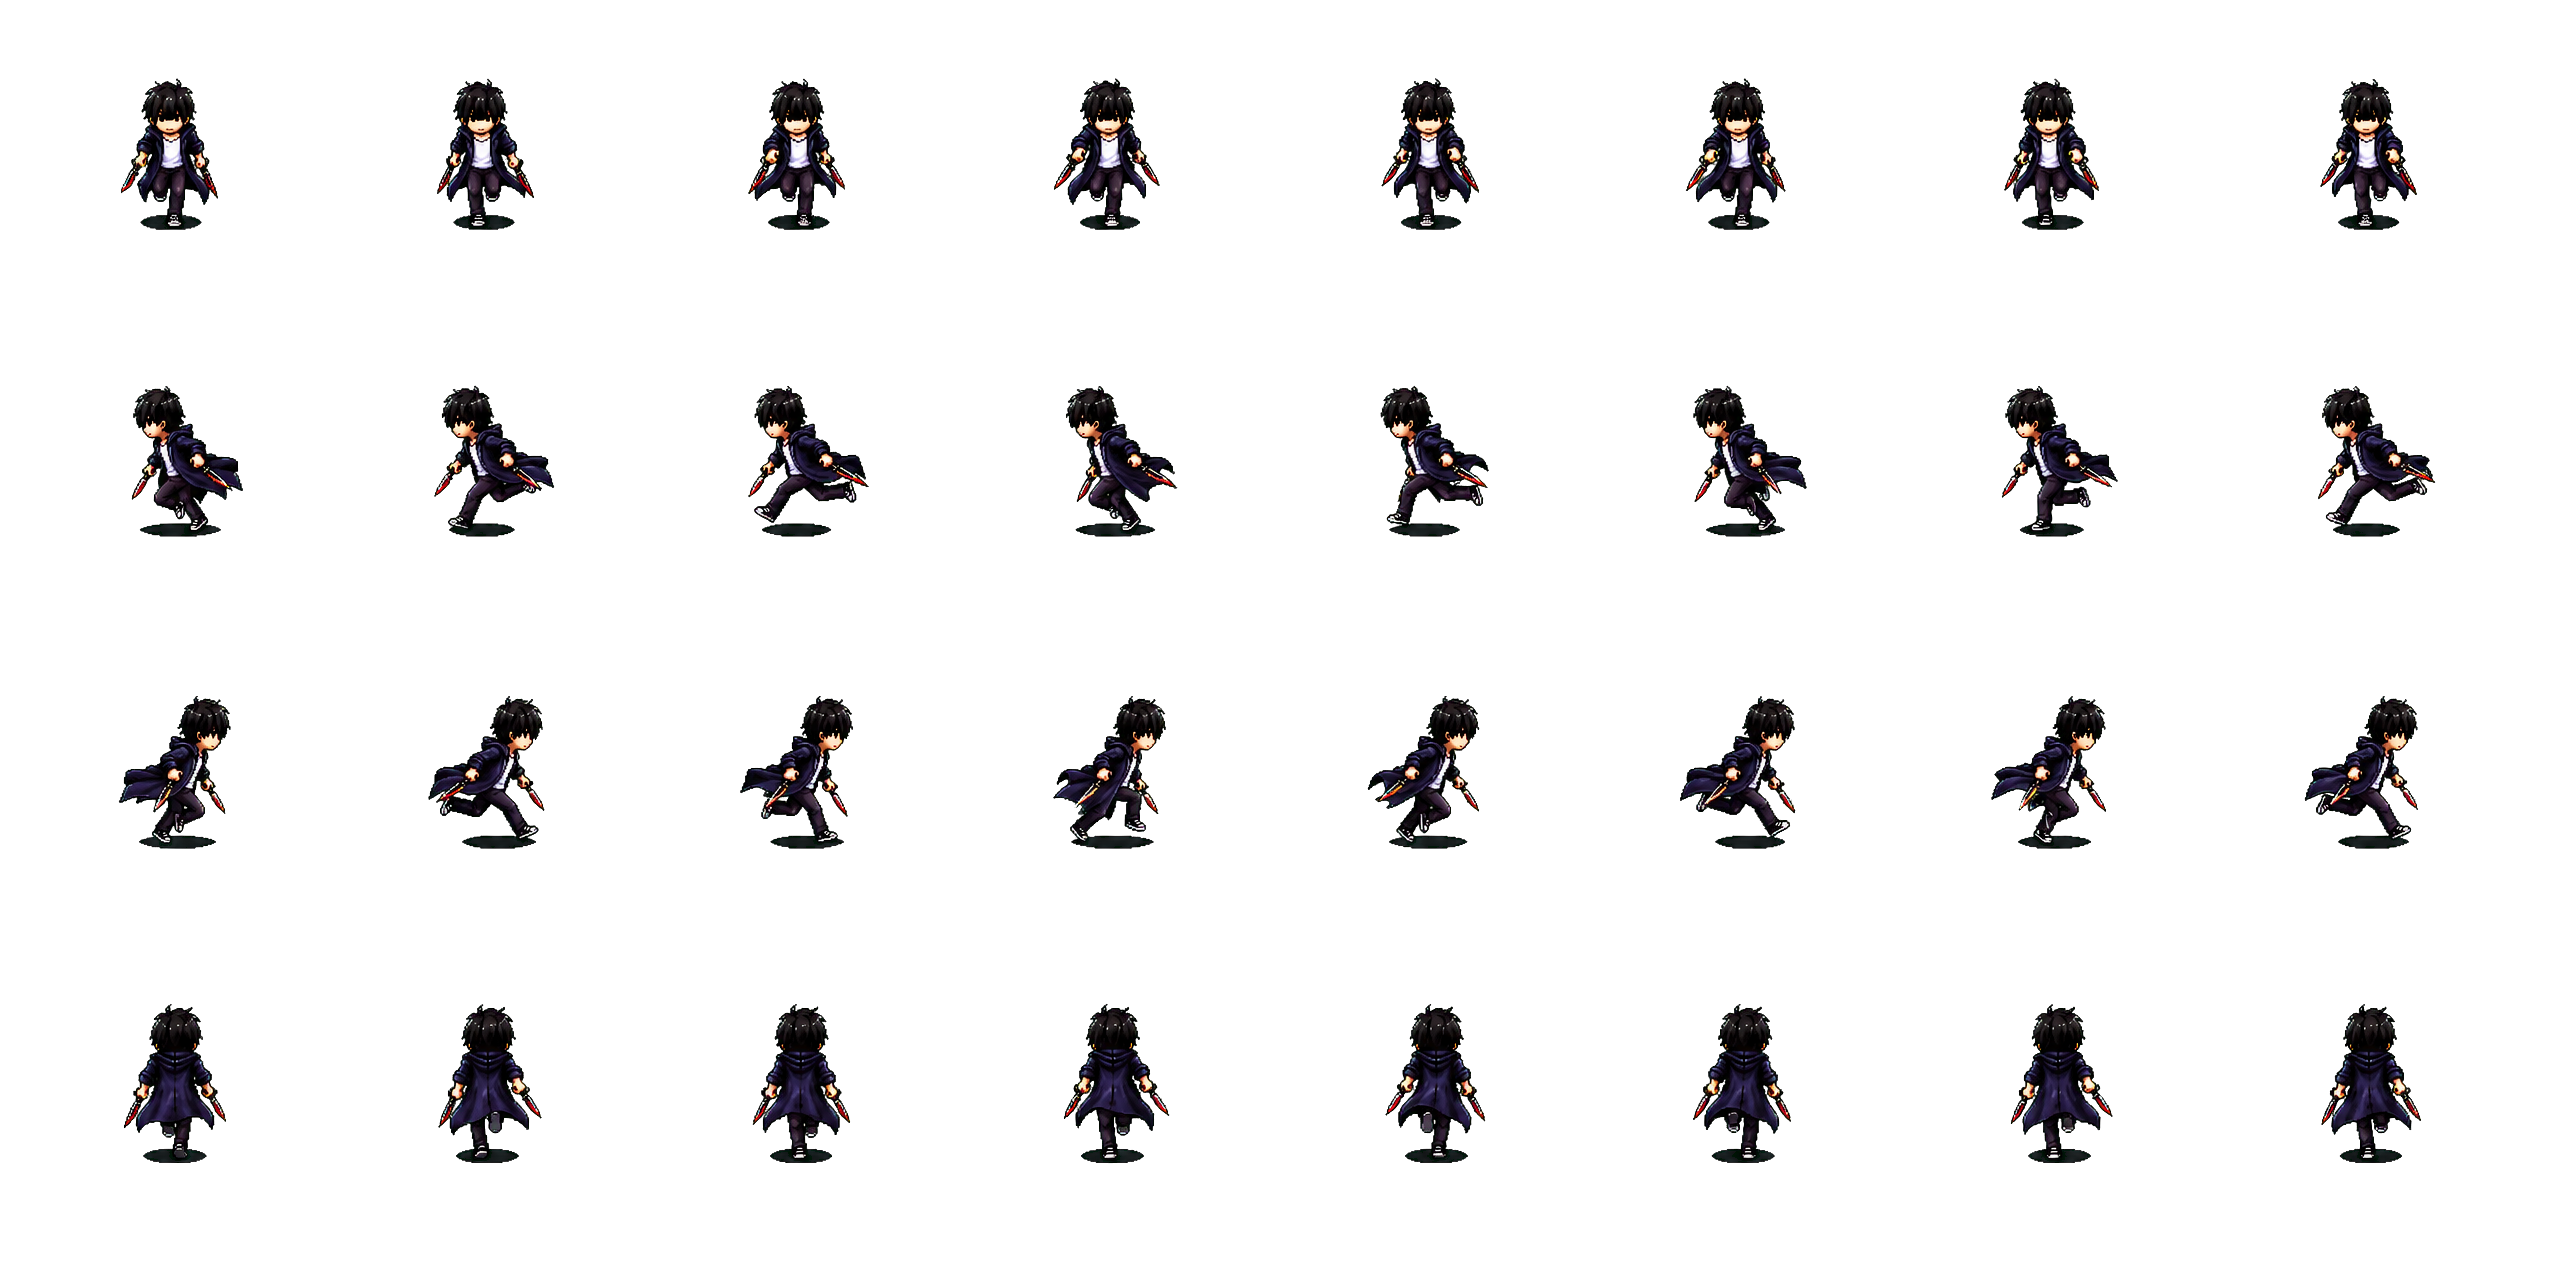
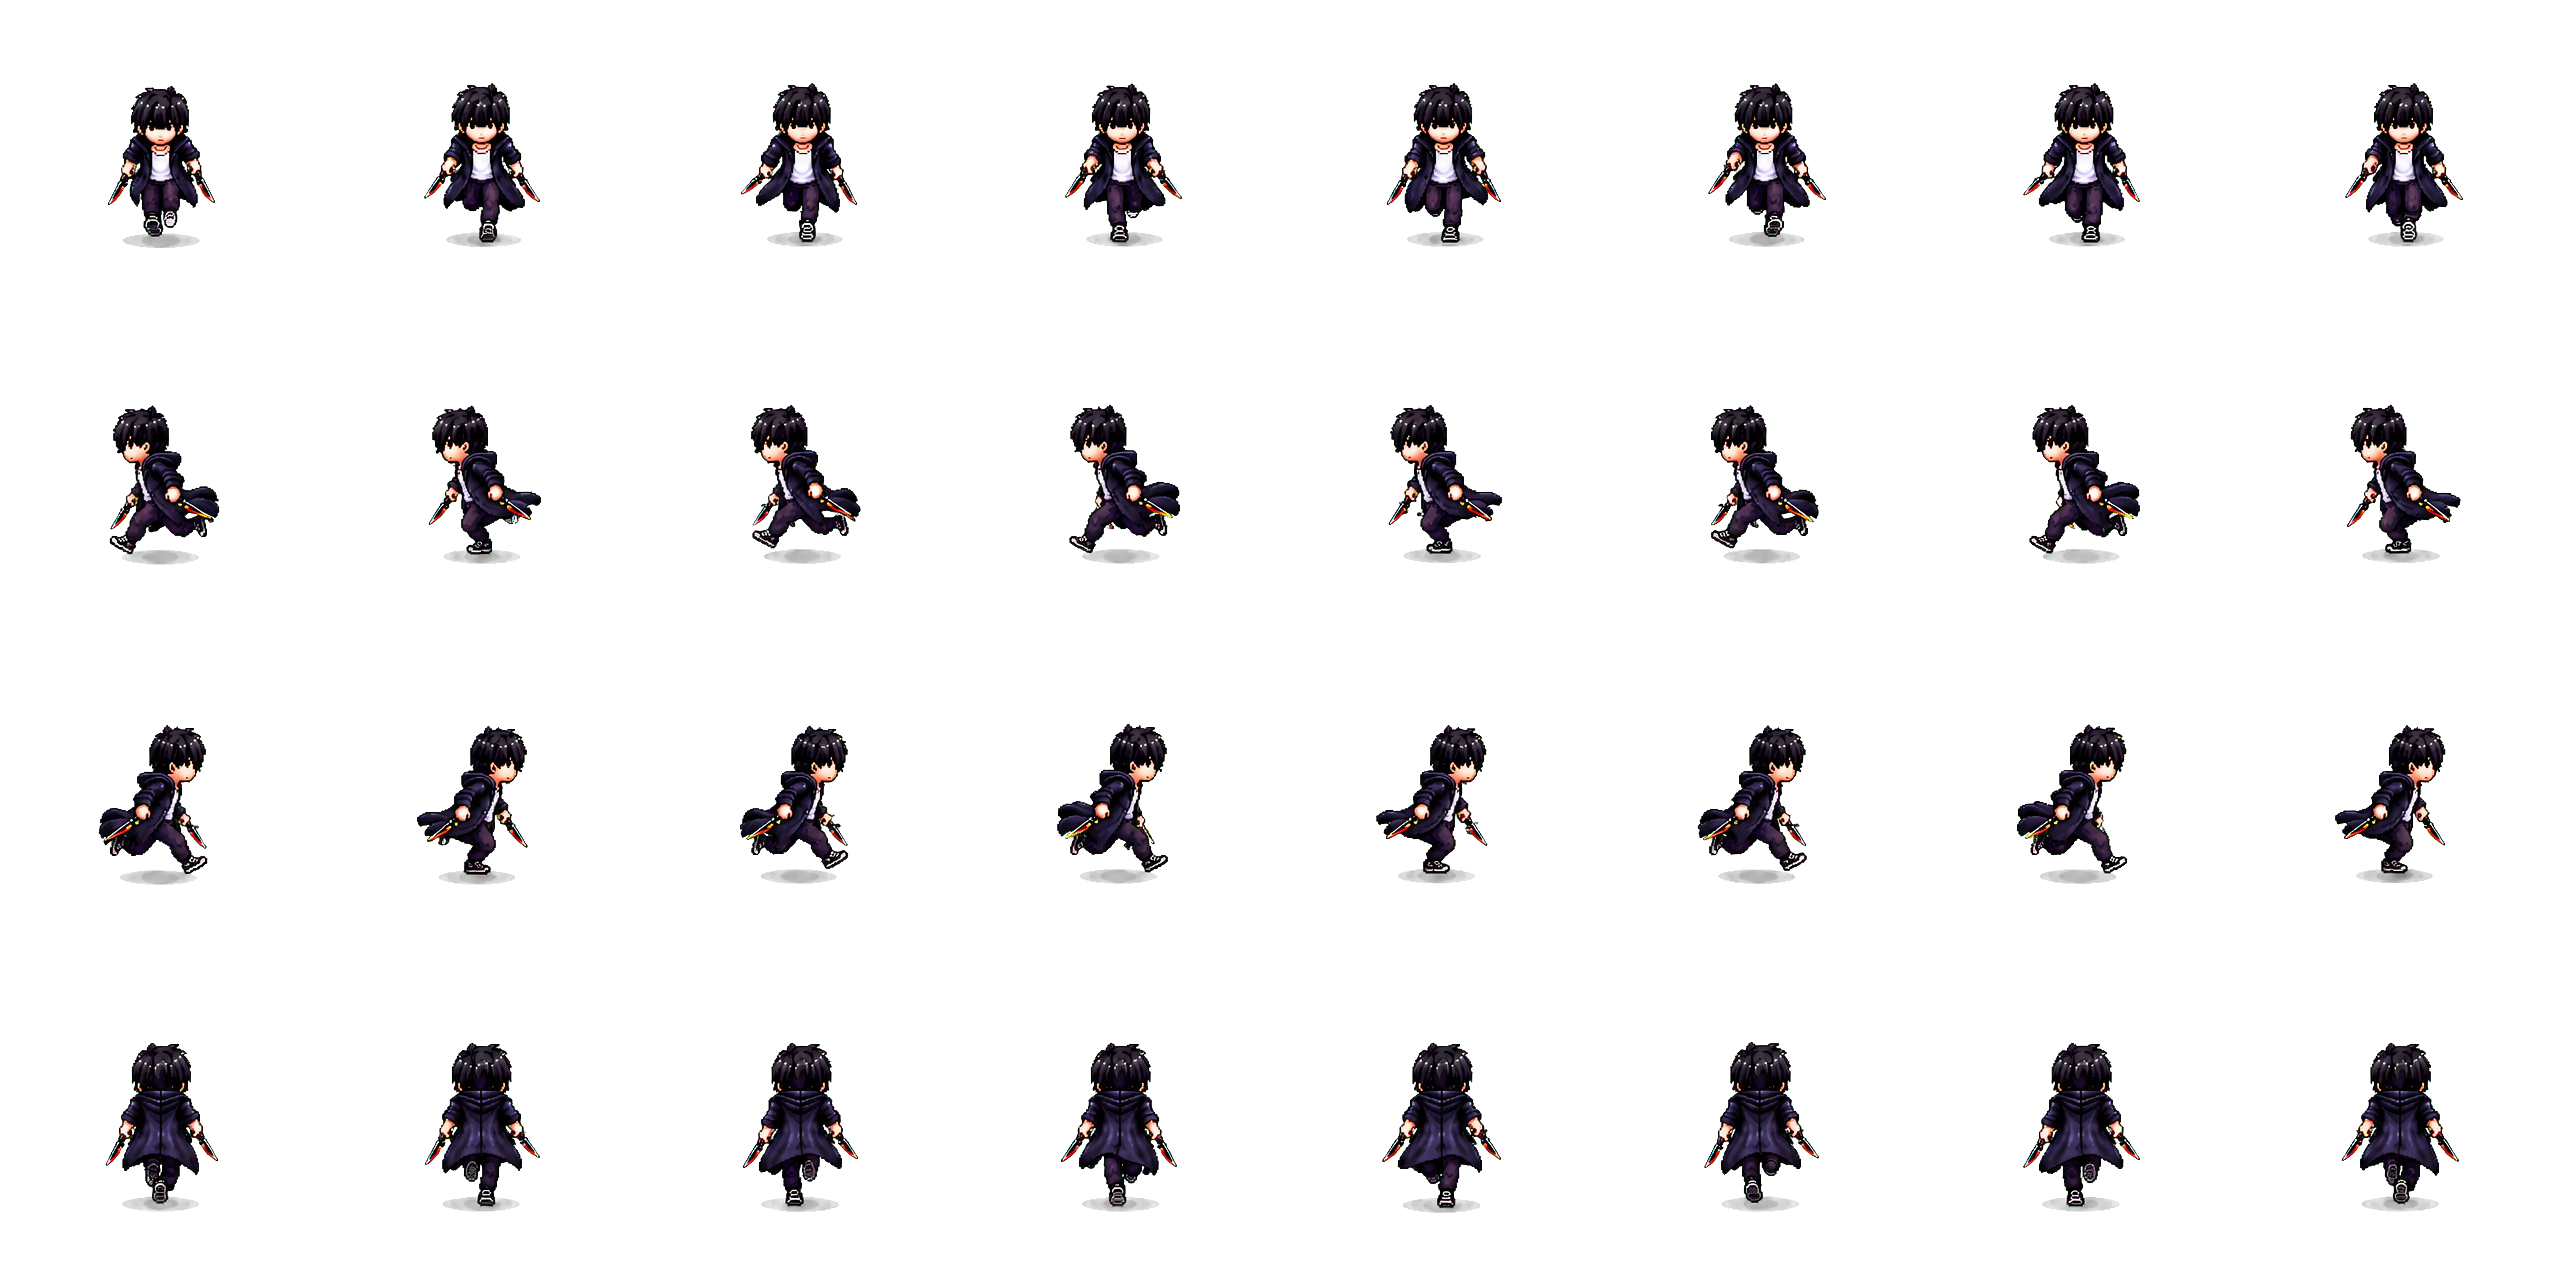
fixing animations

diff --git a/gameplay.py b/gameplay.py
@@ -17,7 +17,8 @@ from game_data import (
     STAGES, ENEMY_TYPES, CLASS_STATS, portrait_imgs, STAGE_BGS,
     warrior_anims, _w_idle_rows, _w_walk_rows, _w_run_rows, _w_atk_rows,
     _w_run_atk_rows, _w_walk_atk_rows, _w_hurt_rows, _w_death_rows,
-    assassin_anims, _a_idle_rows, _a_walk_rows, _a_run_rows, _a_atk_rows,
+    assassin_anims, _a_idle_rows, _a_walk_rows, _a_run_rows,
+    _a_atk1_rows, _a_atk2_rows, _a_atk3_rows,
     _a_walk_atk_rows, _a_run_atk_rows, _a_dash_rows, _a_dash_atk_rows,
     _a_hurt_rows, _a_death_rows,
     VAMPIRE_STATS,
@@ -68,11 +69,14 @@ def stage_screen(hero_class, hero_name, stage_idx):
     # ── 3-hit combo ──
     if is_assassin:
         COMBO_STEPS = [
-            {"dmg": (14, 24), "knockback": 4,  "recovery": 330, "fps": 22, "range": ATTACK_RANGE},
-            {"dmg": (17, 28), "knockback": 6,  "recovery": 330, "fps": 22, "range": ATTACK_RANGE + 5},
-            {"dmg": (28, 42), "knockback": 11, "recovery": 420, "fps": 20, "range": ATTACK_RANGE + 18},
+            # Keep Jinwoo quick, but leave each pose on screen long enough to
+            # read.  The old 22/22/20 FPS values made the 7-frame attack look
+            # like a flash instead of an actual dagger combo.
+            {"dmg": (14, 24), "knockback": 4,  "recovery": 430, "fps": 14, "range": ATTACK_RANGE},
+            {"dmg": (17, 28), "knockback": 6,  "recovery": 430, "fps": 14, "range": ATTACK_RANGE + 5},
+            {"dmg": (28, 42), "knockback": 11, "recovery": 640, "fps": 11, "range": ATTACK_RANGE + 18},
         ]
-        COMBO_WINDOW = 520
+        COMBO_WINDOW = 700
     else:
         COMBO_STEPS = [
             {"dmg": (15, 28), "knockback": 6,  "recovery": 260, "fps": 14, "range": ATTACK_RANGE},
@@ -108,16 +112,18 @@ def stage_screen(hero_class, hero_name, stage_idx):
     if hero_class == "Assassin":
         anim = Animator(assassin_anims.copy(), default="idle", fps=8)
         idle_rows, walk_rows, run_rows = _a_idle_rows, _a_walk_rows, _a_run_rows
-        atk_rows, run_atk_rows = _a_atk_rows, _a_run_atk_rows
+        atk_combo_rows = (_a_atk1_rows, _a_atk2_rows, _a_atk3_rows)
+        run_atk_rows = _a_run_atk_rows
         dash_rows, dash_attack_rows = _a_dash_rows, _a_dash_atk_rows
         hurt_rows, death_rows = _a_hurt_rows, _a_death_rows
         walk_atk_rows = _a_walk_atk_rows
     else:
         anim = Animator(warrior_anims.copy(), default="idle", fps=8)
         idle_rows, walk_rows, run_rows = _w_idle_rows, _w_walk_rows, _w_run_rows
-        atk_rows, run_atk_rows = _w_atk_rows, _w_run_atk_rows
+        atk_combo_rows = (_w_atk_rows, _w_atk_rows, _w_atk_rows)
+        run_atk_rows = _w_run_atk_rows
         dash_rows, dash_attack_rows = _w_run_rows, _w_atk_rows
-        walk_atk_rows = _w_walk_atk_rows
+        walk_atk_rows = (_w_walk_atk_rows, _w_walk_atk_rows, _w_walk_atk_rows)
         hurt_rows, death_rows = _w_hurt_rows, _w_death_rows
 
     last_time = pygame.time.get_ticks()
@@ -140,6 +146,10 @@ def stage_screen(hero_class, hero_name, stage_idx):
         "shake":   0,
         "boss_spawned": False,
         "combo_index": 0,
+        # Combo progression follows successful attack INPUTS, not successful
+        # hits.  The old last_hit_time reset meant swinging at empty space
+        # could replay hit 1 forever instead of reaching attacks 2 and 3.
+        "last_combo_time": -100000,
         "last_hit_time": 0,
         "current_recovery": 0,
         # Hits that have been "thrown" by a swing but haven't landed yet --
@@ -217,8 +227,13 @@ def stage_screen(hero_class, hero_name, stage_idx):
         last_attack_time = now
         state["current_recovery"] = 310 if is_assassin else 260
         state["combo_index"] = 0
-        # The strike plants your feet -- any leftover dash momentum stops here.
-        state["dashing"] = False
+        state["last_combo_time"] = -100000
+        # Assassin dash-strikes keep the momentum of the dash that triggered
+        # them.  Previously this line unconditionally stopped dashing, which
+        # is why pressing attack made Jinwoo travel only a tiny distance.
+        # Warrior behavior stays unchanged.
+        if not is_assassin:
+            state["dashing"] = False
         play_dir("dash_attack", dash_attack_rows, one_shot=True, force=True, fps=DASH_ATTACK_FPS)
         if hero_class == "Warrior":
             spawn_slash(direction, duration=220)
@@ -265,31 +280,46 @@ def stage_screen(hero_class, hero_name, stage_idx):
         if now - last_attack_time < state["current_recovery"]:
             return  # still recovering from the last swing
 
-        # Waited too long since the last hit landed? Combo resets to step 1.
-        if now - state["last_hit_time"] > COMBO_WINDOW:
+        # Waited too long since the previous light-attack input? Reset to hit
+        # 1. This deliberately does not depend on whether the swing connected.
+        if now - state["last_combo_time"] > COMBO_WINDOW:
             state["combo_index"] = 0
 
-        step = COMBO_STEPS[state["combo_index"]]
+        combo_index = state["combo_index"]
+        step = COMBO_STEPS[combo_index]
         dmg = random.randint(*step["dmg"])
         dmg, crit = roll_crit(dmg)
         last_attack_time = now
         state["current_recovery"] = step["recovery"]
+        state["last_combo_time"] = now
 
-        if is_moving and is_sprinting:
+        if is_assassin and is_moving and not is_sprinting:
+            # Walking keeps the same three-hit combo identity, but uses
+            # dedicated locomotion-aware art so Jinwoo continues stepping
+            # through each slash instead of playing a standing pose while his
+            # world position slides forward.
+            anim_name = f"walk_attack_{combo_index + 1}"
+            rows = walk_atk_rows[combo_index]
+        elif is_assassin:
+            # Jinwoo's standing LMB chain: right-hand opener -> left-hand
+            # reverse slash -> crossed dual-dagger finisher.
+            anim_name = f"attack_{combo_index + 1}"
+            rows = atk_combo_rows[combo_index]
+        elif is_moving and is_sprinting:
             anim_name, rows = "run_attack", run_atk_rows
         elif is_moving:
-            anim_name, rows = "walk_attack", walk_atk_rows
+            anim_name, rows = "walk_attack", walk_atk_rows[combo_index]
         else:
-            anim_name, rows = "attack", atk_rows
+            anim_name, rows = "attack", atk_combo_rows[combo_index]
         play_dir(anim_name, rows, one_shot=True, force=True, fps=step["fps"])
         if hero_class == "Warrior":
-            spawn_slash(direction, duration=260 if state["combo_index"] == 2 else 190)
+            spawn_slash(direction, duration=260 if combo_index == 2 else 190)
 
         queue_hit(dmg, knockback=step["knockback"],
                   atk_range=step["range"], fps=step["fps"],
-                  combo_step=state["combo_index"] + 1, facing=direction, crit=crit)
+                  combo_step=combo_index + 1, facing=direction, crit=crit)
 
-        state["combo_index"] = (state["combo_index"] + 1) % len(COMBO_STEPS)
+        state["combo_index"] = (combo_index + 1) % len(COMBO_STEPS)
 
     def queue_hit(dmg, knockback, atk_range, fps, combo_step=None, facing=None,
                   crit=False):

diff --git a/game_data.py b/game_data.py
@@ -123,7 +123,20 @@ ASSASSIN_SHEETS = {
     "idle":        ("assets/Assassin/GameReady/idle.png",         6, 4),
     "walk":        ("assets/Assassin/GameReady/walk.png",         6, 4),
     "run":         ("assets/Assassin/GameReady/run.png",          8, 4),
-    "attack":      ("assets/Assassin/GameReady/attack.png",       7, 4),
+    # Three genuinely different light attacks.  gameplay.py advances through
+    # these on consecutive LMB presses instead of replaying one sheet three
+    # times with different damage values.
+    "attack_1":    ("assets/Assassin/GameReady/attack_1.png",     6, 4),
+    "attack_2":    ("assets/Assassin/GameReady/attack_2.png",     6, 4),
+    "attack_3":    ("assets/Assassin/GameReady/attack_3.png",     6, 4),
+    # Moving versions of the same 3-hit light combo.  Keeping them separate
+    # prevents the standing attack art from visually sliding over the ground
+    # while the player's world position continues to move.
+    "walk_attack_1": ("assets/Assassin/GameReady/walk_attack_1.png", 6, 4),
+    "walk_attack_2": ("assets/Assassin/GameReady/walk_attack_2.png", 6, 4),
+    "walk_attack_3": ("assets/Assassin/GameReady/walk_attack_3.png", 6, 4),
+    # Kept for backwards compatibility with any menu/preview code that still
+    # asks for the legacy single walk-attack sheet.
     "walk_attack": ("assets/Assassin/GameReady/walk_attack.png",  6, 4),
     "run_attack":  ("assets/Assassin/GameReady/run_attack.png",   8, 4),
     "dash":        ("assets/Assassin/GameReady/dash.png",         7, 4),
@@ -145,8 +158,14 @@ ASSASSIN_ANIM_ROWS = {
 _a_idle_rows = [row + list(reversed(row)) for row in ASSASSIN_ANIM_ROWS["idle"]]
 _a_walk_rows = ASSASSIN_ANIM_ROWS["walk"]
 _a_run_rows = ASSASSIN_ANIM_ROWS["run"]
-_a_atk_rows = ASSASSIN_ANIM_ROWS["attack"]
-_a_walk_atk_rows = ASSASSIN_ANIM_ROWS["walk_attack"]
+_a_atk1_rows = ASSASSIN_ANIM_ROWS["attack_1"]
+_a_atk2_rows = ASSASSIN_ANIM_ROWS["attack_2"]
+_a_atk3_rows = ASSASSIN_ANIM_ROWS["attack_3"]
+_a_walk_atk_rows = (
+    ASSASSIN_ANIM_ROWS["walk_attack_1"],
+    ASSASSIN_ANIM_ROWS["walk_attack_2"],
+    ASSASSIN_ANIM_ROWS["walk_attack_3"],
+)
 _a_run_atk_rows = ASSASSIN_ANIM_ROWS["run_attack"]
 _a_dash_rows = ASSASSIN_ANIM_ROWS["dash"]
 _a_dash_atk_rows = ASSASSIN_ANIM_ROWS["dash_attack"]
